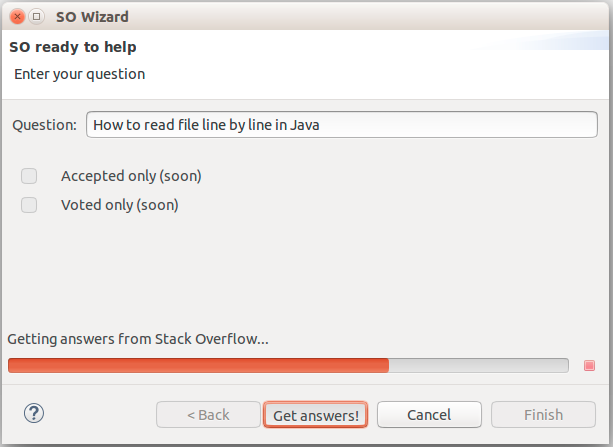
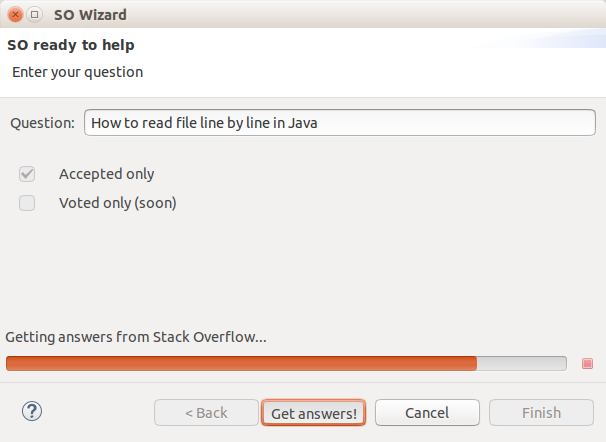
Update README.md and question.pnh

Changed region(s): [[0.0, 0.0, 1.0, 1.0], [0.0891, 0.3824, 0.3267, 0.4118], [0.0891, 0.4412, 0.297, 0.4706]]

diff --git a/README.md b/README.md
@@ -32,13 +32,12 @@ You can also install it within Eclipse itself:
 ## //TODO
 
 * Include comments
-* Add "only accepted" and "top answers" filters
+* Add "top answers" filters
 * Any feature request is more than welcome
 
 ## Running Locally
 
 * Download [Eclipse Plug-in Development Environment (PDE)](http://www.eclipse.org/pde/)
-* File > Import...
-* General > Existing Projects into Workspace
-* Select root directory > Browse...
-* Choose the project's root
+* "File" > "Import..."
+* "General" > "Existing Projects into Workspace"
+* "Browse..." and choose the project's root
